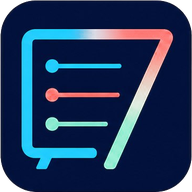
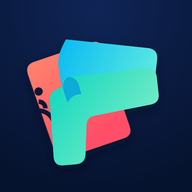
Rebrand Cast 7 as FlipCast

diff --git a/cast-receiver/receiver.js b/cast-receiver/receiver.js
@@ -6,12 +6,12 @@
   const esc=v=>String(v??'').replace(/[&<>'"]/g,c=>({'&':'&amp;','<':'&lt;','>':'&gt;',"'":'&#39;','"':'&quot;'}[c]));
   const VFX={fire:{file:'fire-v49.mp4',type:'video/mp4'},freeze:{file:'freeze-v49.mp4',type:'video/mp4'},electric:{file:'electric-v49.mp4',type:'video/mp4'},x2:{file:'x2-v52.webm',type:'video/webm'},bust:{file:'bust-v52.webm',type:'video/webm',holdAt:8.6},flip7:{file:'flip7-v60.webm',type:'video/webm'}};
   const posterFile=name=>name==='bust'?'bust-v58-poster.png':name==='flip7'?'flip7-v60-poster.png':`${name}-v53-poster.png`;
-  const poster=(name,active)=>`<img class="fx-poster fx-${name}-poster${active?' active-poster':''}" src="assets/${posterFile(name)}?v=64" alt="">`;
-  const vfxVideo=(name,key)=>{const asset=VFX[name];return `<video class="fx-video fx-${name}-video" data-effect-key="${esc(key)}"${asset.holdAt?` data-hold-at="${asset.holdAt}"`:''} autoplay muted playsinline preload="auto" onloadeddata="this.classList.add('ready');this.closest('.player-fx').classList.add('video-ready')" onplaying="this.classList.add('ready');this.closest('.player-fx').classList.add('video-ready')"><source src="assets/${asset.file}?v=64" type="${asset.type}"></video>`};
+  const poster=(name,active)=>`<img class="fx-poster fx-${name}-poster${active?' active-poster':''}" src="assets/${posterFile(name)}?v=65" alt="">`;
+  const vfxVideo=(name,key)=>{const asset=VFX[name];return `<video class="fx-video fx-${name}-video" data-effect-key="${esc(key)}"${asset.holdAt?` data-hold-at="${asset.holdAt}"`:''} autoplay muted playsinline preload="auto" onloadeddata="this.classList.add('ready');this.closest('.player-fx').classList.add('video-ready')" onplaying="this.classList.add('ready');this.closest('.player-fx').classList.add('video-ready')"><source src="assets/${asset.file}?v=65" type="${asset.type}"></video>`};
   const videoEffect=p=>p.busted?'bust':p.flip7?'flip7':p.doubled?'x2':p.frozen?'freeze':p.hot?'fire':p.nearVictory?'electric':null;
   const videoPriority=['bust','flip7','x2','freeze','fire','electric'];
   const fx=(p,activeVideo)=>{const names=[];if(p.hot)names.push('fire');if(p.frozen)names.push('freeze');if(p.doubled)names.push('x2');if(p.busted)names.push('bust');if(p.flip7)names.push('flip7');if(p.nearVictory)names.push('electric');const key=activeVideo?`${p.id}:${activeVideo}`:'';return `<span class="player-fx${activeVideo?' has-video':''}" aria-hidden="true">${names.map(name=>poster(name,name===activeVideo)).join('')}${p.doubled?'<span class="fx-x2-hold">×2</span>':''}${activeVideo?vfxVideo(activeVideo,key):''}</span>`};
-  function warmVfx(){const bin=document.createElement('div');bin.className='vfx-preload';for(const [name,asset] of Object.entries(VFX)){const video=document.createElement('video');video.muted=true;video.playsInline=true;video.preload='metadata';video.poster=`assets/${posterFile(name)}?v=64`;video.src=`assets/${asset.file}?v=64`;bin.appendChild(video)}document.body.appendChild(bin)}
+  function warmVfx(){const bin=document.createElement('div');bin.className='vfx-preload';for(const [name,asset] of Object.entries(VFX)){const video=document.createElement('video');video.muted=true;video.playsInline=true;video.preload='metadata';video.poster=`assets/${posterFile(name)}?v=65`;video.src=`assets/${asset.file}?v=65`;bin.appendChild(video)}document.body.appendChild(bin)}
   let lastGameId=null,previousLeaderId=null,previousDoubled=new Map(),effectState=new Map(),effectQueue=[],currentEffectKey=null,lastData=null,effectWatchdog=null;
   function finishVideo(video,failed=false){const key=video.dataset.effectKey;if(key)effectState.set(key,'done');if(key===currentEffectKey){currentEffectKey=null;clearTimeout(effectWatchdog);effectWatchdog=null}const wrap=video.closest('.player-fx');if(failed)video.classList.add('failed');video.remove();if(wrap){wrap.classList.remove('video-ready','has-video');if(failed)wrap.classList.add('video-failed')}setTimeout(()=>lastData&&render(lastData),0)}
   board.addEventListener('ended',event=>{if(event.target.matches('.fx-video'))finishVideo(event.target)},true);
@@ -30,7 +30,7 @@
     if(!data)return;idle.classList.add('hidden');board.classList.remove('hidden');
     if(data.status==='stats'){
       clearTimeout(effectWatchdog);effectWatchdog=null;effectQueue=[];currentEffectKey=null;effectState=new Map();
-      const stats=data.stats||[];board.className=`scoreboard stats-screen${stats.length>10?' dense-stats':''}`;board.innerHTML=`<header><div><span>ALL-TIME</span><h1>Cast 7 stats</h1></div><div class="round"><b>${Number(data.totalGames)||0}</b><small>games tracked</small></div></header><div class="cast-stats">${stats.map((p,i)=>`<article class="cast-stat-row"><em>${i+1}</em><strong>${esc(p.name)}<small>${Number(p.games)||0} games · ${Math.round((Number(p.winPct)||0)*100)}% wins${p.avgPlace?` · avg place ${Number(p.avgPlace).toFixed(1)}`:''}</small></strong><b>${Number(p.wins)||0}<small>wins</small></b></article>`).join('')||'<p>No completed games yet.</p>'}</div><footer>All-time player leaderboard</footer>`;return;
+      const stats=data.stats||[];board.className=`scoreboard stats-screen${stats.length>10?' dense-stats':''}`;board.innerHTML=`<header><div><span>ALL-TIME</span><h1>FlipCast stats</h1></div><div class="round"><b>${Number(data.totalGames)||0}</b><small>games tracked</small></div></header><div class="cast-stats">${stats.map((p,i)=>`<article class="cast-stat-row"><em>${i+1}</em><strong>${esc(p.name)}<small>${Number(p.games)||0} games · ${Math.round((Number(p.winPct)||0)*100)}% wins${p.avgPlace?` · avg place ${Number(p.avgPlace).toFixed(1)}`:''}</small></strong><b>${Number(p.wins)||0}<small>wins</small></b></article>`).join('')||'<p>No completed games yet.</p>'}</div><footer>All-time player leaderboard</footer>`;return;
     }
     if(!data?.players?.length)return;
     if(data.gameId!==lastGameId){lastGameId=data.gameId;previousLeaderId=null;previousDoubled=new Map();effectState=new Map();effectQueue=[];currentEffectKey=null;clearTimeout(effectWatchdog);effectWatchdog=null}
@@ -52,7 +52,7 @@
     if(!currentEffectKey){currentEffectKey=effectQueue.shift()||null;if(currentEffectKey){effectState.set(currentEffectKey,'playing');clearTimeout(effectWatchdog);const watchedKey=currentEffectKey;effectWatchdog=setTimeout(()=>{if(currentEffectKey===watchedKey){effectState.set(watchedKey,'done');currentEffectKey=null;render(lastData)}},15000)}}
     const activeVideoById=new Map(activeEffects.filter(([p,effect])=>`${p.id}:${effect}`===currentEffectKey).map(([p,effect])=>[p.id,effect]));
     const liveVideos=new Map([...board.querySelectorAll('.fx-video[data-effect-key]')].map(video=>{video.remove();return [video.dataset.effectKey,video]}));
-    board.innerHTML=`<header><div><span>${data.roundActive?'CURRENT ROUND PREVIEW':'LIVE SCOREBOARD'}</span><h1>Cast 7</h1></div><div class="round">Round <b>${Number(data.round)||1}</b><small>First to ${Number(data.target)||200}</small></div></header><div class="players">${players.map((p,i)=>{const doublePulse=p.doubled&&previousDoubled.get(p.id)===false;const effects=`${p.flip7?' flip7':''}${p.frozen?' frozen':''}${p.hot?' hot':''}${p.busted?' busted':''}${p.nearVictory?' near-win':''}${doublePulse?' double-pulse':''}${p.id===newLeaderId?' new-leader':''}`;const badges=`${p.flip7?'<small class="effect-tag gold">✦ FLIP 7</small>':''}${p.frozen?'<small class="effect-tag ice">❄ FROZEN</small>':''}${p.doubled?'<small class="effect-tag double">×2</small>':''}${p.hot?'<small class="effect-tag fire">🔥 60+</small>':''}${p.nearVictory?'<small class="effect-tag electric">⚡ NEAR WIN</small>':''}${p.busted?'<small class="effect-tag bust">BUST</small>':''}`;return `<article class="player ${p.score===high&&high>0?'leader':''} ${data.roundActive?'preview':''}${effects}">${fx(p,activeVideoById.get(p.id))}<em>${i===0?'♛':i+1}</em><strong>${esc(p.name)}<span class="effect-tags">${badges}</span>${p.score===high&&high>0?'<small class="leader-label">LEADER</small>':''}</strong><i><u style="width:${Math.min(100,p.score/data.target*100)}%"></u></i><b>${Number(p.score)||0}${data.roundActive?`<small><span>${Number(p.banked)||0}</span> <mark>+${Number(p.roundPoints)||0}</mark></small>`:''}</b></article>`}).join('')}</div><footer>${data.roundActive?'Projected totals if everyone stops now':`${Number(data.completedRounds)||0} rounds complete · ${players.length} players`}</footer>`;
+    board.innerHTML=`<header><div><span>${data.roundActive?'CURRENT ROUND PREVIEW':'LIVE SCOREBOARD'}</span><h1>FlipCast</h1></div><div class="round">Round <b>${Number(data.round)||1}</b><small>First to ${Number(data.target)||200}</small></div></header><div class="players">${players.map((p,i)=>{const doublePulse=p.doubled&&previousDoubled.get(p.id)===false;const effects=`${p.flip7?' flip7':''}${p.frozen?' frozen':''}${p.hot?' hot':''}${p.busted?' busted':''}${p.nearVictory?' near-win':''}${doublePulse?' double-pulse':''}${p.id===newLeaderId?' new-leader':''}`;const badges=`${p.flip7?'<small class="effect-tag gold">✦ FLIP 7</small>':''}${p.frozen?'<small class="effect-tag ice">❄ FROZEN</small>':''}${p.doubled?'<small class="effect-tag double">×2</small>':''}${p.hot?'<small class="effect-tag fire">🔥 60+</small>':''}${p.nearVictory?'<small class="effect-tag electric">⚡ NEAR WIN</small>':''}${p.busted?'<small class="effect-tag bust">BUST</small>':''}`;return `<article class="player ${p.score===high&&high>0?'leader':''} ${data.roundActive?'preview':''}${effects}">${fx(p,activeVideoById.get(p.id))}<em>${i===0?'♛':i+1}</em><strong>${esc(p.name)}<span class="effect-tags">${badges}</span>${p.score===high&&high>0?'<small class="leader-label">LEADER</small>':''}</strong><i><u style="width:${Math.min(100,p.score/data.target*100)}%"></u></i><b>${Number(p.score)||0}${data.roundActive?`<small><span>${Number(p.banked)||0}</span> <mark>+${Number(p.roundPoints)||0}</mark></small>`:''}</b></article>`}).join('')}</div><footer>${data.roundActive?'Projected totals if everyone stops now':`${Number(data.completedRounds)||0} rounds complete · ${players.length} players`}</footer>`;
     for(const placeholder of board.querySelectorAll('.fx-video[data-effect-key]')){const live=liveVideos.get(placeholder.dataset.effectKey);if(live&&!live.ended)placeholder.replaceWith(live)}
     if(uniqueLeaderId)previousLeaderId=uniqueLeaderId;
     previousDoubled=new Map(players.map(p=>[p.id,Boolean(p.doubled)]));

diff --git a/app.js b/app.js
@@ -1,4 +1,4 @@
-import {MODIFIERS, calculateRound, totalsFor, gameOutcome, playerStats} from './rules.js?v=64';
+import {MODIFIERS, calculateRound, totalsFor, gameOutcome, playerStats} from './rules.js?v=65';
 
 function syncViewportHeight(){document.documentElement.style.setProperty('--app-height',`${Math.round(window.visualViewport?.height||window.innerHeight)}px`)}
 syncViewportHeight();
@@ -7,7 +7,7 @@ window.visualViewport?.addEventListener('scroll',syncViewportHeight);
 window.addEventListener('orientationchange',syncViewportHeight);
 
 const KEY = 'seven-up-scorekeeper-v1';
-const BUILD = '64';
+const BUILD = '65';
 const FEEDBACK_FORM = 'https://tally.so/r/1Ag8Pb';
 const fresh = () => ({players:[], games:[], activeGameId:null});
 let state = load(); let view = 'home'; let scoringMode = 'cards'; let draft = {}; let winnerGame = null;
@@ -49,7 +49,7 @@ function home(){const game=activeGame();return `<svg class="cast-arrow-overlay" 
   ${game?`<button class="card home-action primary" data-nav="game"><strong>Resume game</strong><span>Round ${game.rounds.length+1} · ${game.playerIds.length} players</span></button>`:`<button class="card home-action primary" data-nav="setup"><strong>New game</strong><span>Choose players and start scoring</span></button>`}
   ${game?`<button class="card home-action" data-nav="setup"><strong>New game</strong><span>Start another match</span></button>`:''}
   <button class="card home-action" data-nav="stats"><strong>All-time stats</strong><span>Wins, win rate, streaks, and more</span></button>
-  <button class="card home-action" data-nav="history"><strong>Game history</strong><span>${state.games.filter(g=>g.status==='complete').length} completed games</span></button></section><p class="subtle app-footer"><a href="${esc(feedbackUrl())}" target="_blank" rel="noopener">Feedback</a><span aria-hidden="true">·</span><a href="privacy.html?v=64">Privacy</a></p>`}
+  <button class="card home-action" data-nav="history"><strong>Game history</strong><span>${state.games.filter(g=>g.status==='complete').length} completed games</span></button></section><p class="subtle app-footer"><a href="${esc(feedbackUrl())}" target="_blank" rel="noopener">Feedback</a><span aria-hidden="true">·</span><a href="privacy.html?v=65">Privacy</a></p>`}
 function positionCastArrow(){const svg=document.querySelector('.cast-arrow-overlay'),hint=document.querySelector('.hero-cast-hint'),launcher=document.querySelector('.cast-launcher');if(!svg||!hint)return;const h=hint.getBoundingClientRect(),c=launcher?.getBoundingClientRect();const startX=Math.min(innerWidth-70,h.right+9),startY=h.top+h.height/2,targetX=c?.width?c.left+c.width/2:innerWidth-37,targetY=c?.height?c.top+c.height/2:34;svg.setAttribute('viewBox',`0 0 ${innerWidth} ${innerHeight}`);svg.querySelector('path').setAttribute('d',`M${startX} ${startY} H${targetX} V${targetY}`);svg.querySelector('polyline').setAttribute('points',`${targetX-8},${targetY+12} ${targetX},${targetY} ${targetX+8},${targetY+12}`)}
 function setup(){return `<section class="setup-page-shell"><div class="section-head setup-head"><h1>New game</h1><button class="button ghost small" data-nav="home">Cancel</button></div><section class="card setup-card">
   <div class="field"><label>Target score</label><input id="target" type="number" min="25" max="999" value="200" inputmode="numeric"></div>
@@ -62,7 +62,7 @@ function gameScreen(game){const totals=totalsFor(game);const latestRound=game.ro
   <div class="game-actions"><button id="endGame" class="button ghost">End game</button><button id="scoreRound" class="button">Score round ${game.rounds.length+1}</button></div></section>`}
 function tvScreen(game){
   const totals=totalsFor(game);const order=[...game.playerIds].sort((a,b)=>totals[b]-totals[a]);const high=Math.max(...Object.values(totals));const cols=order.length>8?2:1;const rows=Math.ceil(order.length/cols);
-  return `<section class="tv-view ${cols===2?'tv-dense':''}" style="--tv-cols:${cols};--tv-rows:${rows}"><header class="tv-head"><div><span class="tv-kicker">LIVE SCOREBOARD</span><h1>Cast 7</h1></div><div class="tv-round">Round <strong>${game.rounds.length+1}</strong><small>First to ${game.target}</small></div></header>
+  return `<section class="tv-view ${cols===2?'tv-dense':''}" style="--tv-cols:${cols};--tv-rows:${rows}"><header class="tv-head"><div><span class="tv-kicker">LIVE SCOREBOARD</span><h1>FlipCast</h1></div><div class="tv-round">Round <strong>${game.rounds.length+1}</strong><small>First to ${game.target}</small></div></header>
   <div class="tv-board">${order.map((id,i)=>`<article class="tv-player ${totals[id]===high&&high>0?'leader':''}"><div class="tv-rank">${i===0?'♛':i+1}</div><div class="tv-name">${esc(player(id)?.name)}${totals[id]===high&&high>0?'<span>LEADER</span>':''}</div><div class="tv-track"><i style="width:${Math.min(100,totals[id]/game.target*100)}%"></i></div><div class="tv-score">${totals[id]}</div></article>`).join('')}</div>
   <footer class="tv-foot"><span>${game.rounds.length?`${game.rounds.length} round${game.rounds.length===1?'':'s'} complete`:'Game ready'} · ${game.playerIds.length} players</span><div><button id="tvFullscreen" class="button ghost small">Full screen</button> <button class="button ghost small" data-nav="game">Exit TV mode</button></div></footer></section>`;
 }
@@ -112,7 +112,7 @@ if('serviceWorker'in navigator){
     reloading=true;
     location.reload();
   });
-  navigator.serviceWorker.register('./sw.js?v=64',{updateViaCache:'none'}).then(reg=>reg.update()).catch(()=>{});
+  navigator.serviceWorker.register('./sw.js?v=65',{updateViaCache:'none'}).then(reg=>reg.update()).catch(()=>{});
 }
 channel?.addEventListener('message',()=>{state=load();if(view==='tv')render()});
 window.addEventListener('storage',event=>{if(event.key===KEY){state=load();if(view==='tv')render()}});

diff --git a/index.html b/index.html
@@ -4,24 +4,24 @@
   <meta charset="utf-8">
   <meta name="viewport" content="width=device-width,initial-scale=1,viewport-fit=cover">
   <meta name="theme-color" content="#071536">
-  <meta name="description" content="A fast, offline scorekeeper for Flip Seven-style games.">
+  <meta name="description" content="Fast game-night scoring with history, statistics, and a live Cast scoreboard.">
   <meta name="apple-mobile-web-app-capable" content="yes">
   <meta name="apple-mobile-web-app-status-bar-style" content="black-translucent">
-  <meta name="apple-mobile-web-app-title" content="Cast 7">
-  <meta name="application-version" content="64">
-  <title>Cast 7</title>
-  <link rel="manifest" href="manifest.webmanifest?v=64">
-  <link rel="icon" href="icon-192.png?v=64" type="image/png">
-  <link rel="apple-touch-icon" href="icon-192.png?v=64">
-  <link rel="stylesheet" href="styles.css?v=64">
-  <link rel="stylesheet" href="ui-enhancements.css?v=64">
-  <script src="cast-config.js?v=64"></script>
-  <script src="cast-sender.js?v=64"></script>
+  <meta name="apple-mobile-web-app-title" content="FlipCast">
+  <meta name="application-version" content="65">
+  <title>FlipCast</title>
+  <link rel="manifest" href="manifest.webmanifest?v=65">
+  <link rel="icon" href="icon-192.png?v=65" type="image/png">
+  <link rel="apple-touch-icon" href="icon-192.png?v=65">
+  <link rel="stylesheet" href="styles.css?v=65">
+  <link rel="stylesheet" href="ui-enhancements.css?v=65">
+  <script src="cast-config.js?v=65"></script>
+  <script src="cast-sender.js?v=65"></script>
   <script src="https://www.gstatic.com/cv/js/sender/v1/cast_sender.js?loadCastFramework=1"></script>
 </head>
 <body>
   <header class="topbar">
-    <button class="brand" data-nav="home" aria-label="Cast 7 home"><img class="brand-mark" src="icon-192.png?v=64" alt=""><span>Cast 7</span></button>
+    <button class="brand" data-nav="home" aria-label="FlipCast home"><img class="brand-mark" src="icon-192.png?v=65" alt=""><span>FlipCast</span></button>
     <div class="topbar-actions"><button id="installBtn" class="button ghost small hidden">Install</button><button id="castButton" class="cast-launcher cast-unavailable" type="button" title="Cast scoreboard" aria-label="Cast scoreboard" aria-disabled="true"><svg viewBox="0 0 24 24" aria-hidden="true"><path d="M1 18v3h3a3 3 0 0 0-3-3Zm0-4v2a5 5 0 0 1 5 5h2a7 7 0 0 0-7-7Zm0-4v2a9 9 0 0 1 9 9h2C12 14.9 7.1 10 1 10Zm3-7a3 3 0 0 0-3 3v2h2V6a1 1 0 0 1 1-1h16a1 1 0 0 1 1 1v11a1 1 0 0 1-1 1h-6v2h6a3 3 0 0 0 3-3V6a3 3 0 0 0-3-3H4Z"/></svg></button></div>
   </header>
   <main id="app" tabindex="-1"></main>
@@ -33,6 +33,6 @@
       <div class="dialog-actions"><button value="cancel" class="button ghost">Cancel</button><button value="confirm" class="button danger">Confirm</button></div>
     </form>
   </dialog>
-  <script type="module" src="app.js?v=64"></script>
+  <script type="module" src="app.js?v=65"></script>
 </body>
 </html>

diff --git a/privacy.html b/privacy.html
@@ -4,19 +4,19 @@
   <meta charset="utf-8">
   <meta name="viewport" content="width=device-width,initial-scale=1,viewport-fit=cover">
   <meta name="theme-color" content="#071536">
-  <title>Privacy · Cast 7</title>
-  <link rel="icon" href="icon-192.png?v=64" type="image/png">
-  <link rel="stylesheet" href="styles.css?v=64">
-  <link rel="stylesheet" href="ui-enhancements.css?v=64">
+  <title>Privacy · FlipCast</title>
+  <link rel="icon" href="icon-192.png?v=65" type="image/png">
+  <link rel="stylesheet" href="styles.css?v=65">
+  <link rel="stylesheet" href="ui-enhancements.css?v=65">
 </head>
 <body class="privacy-page">
   <header class="topbar">
-    <a class="brand" href="./" aria-label="Back to Cast 7"><img class="brand-mark" src="icon-192.png?v=64" alt=""><span>Cast 7</span></a>
+    <a class="brand" href="./" aria-label="Back to FlipCast"><img class="brand-mark" src="icon-192.png?v=65" alt=""><span>FlipCast</span></a>
   </header>
   <main class="privacy-main">
     <section class="card privacy-card"><div class="privacy-scroll">
-      <div class="privacy-heading"><h1>Privacy</h1><span class="version-pill">App version 64</span></div>
-      <p>Cast 7 stores player names, games, scores, history, and statistics only in your browser on your device.</p>
+      <div class="privacy-heading"><h1>Privacy</h1><span class="version-pill">App version 65</span></div>
+      <p>FlipCast stores player names, games, scores, history, and statistics only in your browser on your device.</p>
       <p>The app does not require an account and does not upload this game data to a server. The hosting provider may keep ordinary technical access logs when it delivers the app files.</p>
       <p>Clearing this site’s browser data, uninstalling the app, or losing the device may permanently remove saved game data. Backup and transfer tools are not yet included in this beta.</p>
       <p>When you choose to Cast, the live scoreboard is sent through Google Cast to the receiver you select. The public receiver does not retain the scoreboard.</p>
@@ -24,7 +24,7 @@
       <h2>Independent utility</h2>
       <p>This is an independent scorekeeping utility. It is not affiliated with, endorsed by, or sponsored by the publishers or trademark owners of any card game or beverage brand. All trademarks belong to their respective owners.</p>
       </div>
-      <div class="privacy-actions"><a class="button ghost" href="update.html?v=64">Update app</a><a class="button" href="./">Back to scorekeeper</a></div>
+      <div class="privacy-actions"><a class="button ghost" href="update.html?v=65">Update app</a><a class="button" href="./">Back to scorekeeper</a></div>
     </section>
   </main>
 </body>

diff --git a/update.html b/update.html
@@ -4,17 +4,17 @@
   <meta charset="utf-8">
   <meta name="viewport" content="width=device-width,initial-scale=1,viewport-fit=cover">
   <meta name="theme-color" content="#071536">
-  <title>Updating Cast 7</title>
+  <title>Updating FlipCast</title>
   <style>
     *{box-sizing:border-box}html,body{height:100%;margin:0}body{display:grid;place-items:center;padding:24px;background:#081017;color:#f6f8f9;font-family:system-ui,-apple-system,sans-serif}.panel{width:min(420px,100%);padding:24px;border:1px solid #ffffff18;border-radius:20px;background:#14212b;text-align:center;box-shadow:0 18px 50px #0007}h1{margin:0 0 9px;font-size:28px}p{margin:0;color:#9fb0bd;line-height:1.5}.spinner{width:38px;height:38px;margin:20px auto;border:4px solid #ffffff1c;border-top-color:#32d5ff;border-radius:50%;animation:spin .8s linear infinite}.button{display:none;margin-top:18px;padding:12px 16px;border:0;border-radius:13px;background:#32d5ff;color:#081017;font:inherit;font-weight:850;text-decoration:none}@keyframes spin{to{transform:rotate(360deg)}}
   </style>
 </head>
 <body>
   <main class="panel">
-    <h1>Updating Cast 7</h1>
+    <h1>Updating FlipCast</h1>
     <p id="status">Removing old downloaded app files…</p>
     <div class="spinner" aria-hidden="true"></div>
-    <a id="retry" class="button" href="./?updated=64">Open Cast 7</a>
+    <a id="retry" class="button" href="./?updated=65">Open FlipCast</a>
   </main>
   <script>
     (async()=>{
@@ -22,7 +22,7 @@
       try{
         if('serviceWorker' in navigator){
           status.textContent='Installing the latest app files…';
-          const registration=await navigator.serviceWorker.register('./sw.js?v=64',{updateViaCache:'none'});
+          const registration=await navigator.serviceWorker.register('./sw.js?v=65',{updateViaCache:'none'});
           await registration.update();
           const worker=registration.installing||registration.waiting||registration.active;
           if(worker&&worker.state!=='activated'){
@@ -36,10 +36,10 @@
             });
           }
         }
-        status.textContent='Update ready. Opening version 64…';
-        location.replace(`./?updated=64&fresh=${Date.now()}`);
+        status.textContent='Update ready. Opening version 65…';
+        location.replace(`./?updated=65&fresh=${Date.now()}`);
       }catch(error){
-        status.textContent='The automatic update was blocked. Tap below to reopen Cast 7.';
+        status.textContent='The automatic update was blocked. Tap below to reopen FlipCast.';
         document.querySelector('.spinner').style.display='none';
         retry.style.display='inline-block';
       }

diff --git a/cast-receiver/index.html b/cast-receiver/index.html
@@ -1,1 +1,1 @@
-<!doctype html><html lang="en"><head><meta charset="utf-8"><meta name="viewport" content="width=device-width,initial-scale=1"><title>Cast 7 TV</title><link rel="stylesheet" href="receiver.css?v=64"><link rel="stylesheet" href="preview.css?v=64"><script src="https://www.gstatic.com/cast/sdk/libs/caf_receiver/v3/cast_receiver_framework.js"></script></head><body><main id="receiver"><section id="idle" class="idle"><img class="brand-mark" src="cast-icon-512.png?v=64" alt=""><h1>Cast 7</h1><p>Ready for scores…</p></section><section id="scoreboard" class="scoreboard hidden"></section></main><script src="receiver.js?v=64"></script></body></html>
+<!doctype html><html lang="en"><head><meta charset="utf-8"><meta name="viewport" content="width=device-width,initial-scale=1"><title>FlipCast TV</title><link rel="stylesheet" href="receiver.css?v=65"><link rel="stylesheet" href="preview.css?v=65"><script src="https://www.gstatic.com/cast/sdk/libs/caf_receiver/v3/cast_receiver_framework.js"></script></head><body><main id="receiver"><section id="idle" class="idle"><img class="brand-mark" src="cast-icon-512.png?v=65" alt=""><h1>FlipCast</h1><p>Ready for scores…</p></section><section id="scoreboard" class="scoreboard hidden"></section></main><script src="receiver.js?v=65"></script></body></html>

diff --git a/sw.js b/sw.js
@@ -1,5 +1,5 @@
-const CACHE = 'cast-7-v64';
-const FILES = ['./','index.html','privacy.html?v=64','update.html?v=64','styles.css?v=64','ui-enhancements.css?v=64','app.js?v=64','rules.js?v=64','cast-config.js?v=64','cast-sender.js?v=64','manifest.webmanifest?v=64','icon-192.png?v=64','icon-512.png?v=64','icon-maskable-512.png?v=64','assets/fire-v3.webp','assets/frost-v3.webp','assets/electric-v3a.webp','assets/electric-v3b.webp'];
+const CACHE = 'flipcast-v65';
+const FILES = ['./','index.html','privacy.html?v=65','update.html?v=65','styles.css?v=65','ui-enhancements.css?v=65','app.js?v=65','rules.js?v=65','cast-config.js?v=65','cast-sender.js?v=65','manifest.webmanifest?v=65','icon-192.png?v=65','icon-512.png?v=65','icon-maskable-512.png?v=65','icon.svg?v=65','icon-maskable.svg?v=65','assets/fire-v3.webp','assets/frost-v3.webp','assets/electric-v3a.webp','assets/electric-v3b.webp'];
 self.addEventListener('install', event => event.waitUntil(caches.open(CACHE).then(cache => cache.addAll(FILES)).then(() => self.skipWaiting())));
 self.addEventListener('activate', event => event.waitUntil(caches.keys().then(keys => Promise.all(keys.filter(k => k !== CACHE).map(k => caches.delete(k)))).then(() => self.clients.claim())));
 self.addEventListener('message', event => {

diff --git a/repair-v10.html b/repair-v10.html
@@ -4,13 +4,13 @@
   <meta charset="utf-8">
   <meta name="viewport" content="width=device-width,initial-scale=1">
   <meta name="theme-color" content="#101820">
-  <title>Repairing Cast 7</title>
+  <title>Repairing FlipCast</title>
   <style>
     body{margin:0;min-height:100vh;display:grid;place-items:center;background:#101820;color:#fff;font:18px system-ui;text-align:center;padding:24px;box-sizing:border-box}
     strong{display:block;color:#32d5ff;font-size:28px;margin-bottom:12px}p{max-width:420px;line-height:1.45}
   </style>
 </head>
-<body><main><strong>Updating Cast 7…</strong><p id="status">Removing the old offline app files. Your players and game history are being preserved.</p></main>
+<body><main><strong>Updating FlipCast…</strong><p id="status">Removing the old offline app files. Your players and game history are being preserved.</p></main>
 <script>
 (async()=>{
   try {

diff --git a/serve.py b/serve.py
@@ -1,5 +1,5 @@
 #!/usr/bin/env python3
-"""Small static server for the Cast 7 home-network app."""
+"""Small static server for the FlipCast home-network app."""
 
 from http.server import SimpleHTTPRequestHandler, ThreadingHTTPServer
 from pathlib import Path
@@ -34,5 +34,5 @@ class AppHandler(SimpleHTTPRequestHandler):
 
 if __name__ == "__main__":
     server = ThreadingHTTPServer(("0.0.0.0", 8787), AppHandler)
-    print("Cast 7 listening on port 8787", flush=True)
+    print("FlipCast listening on port 8787", flush=True)
     server.serve_forever()

diff --git a/cast_receiver_server.py b/cast_receiver_server.py
@@ -13,5 +13,5 @@ class ReceiverHandler(SimpleHTTPRequestHandler):
         super().end_headers()
 
 if __name__ == "__main__":
-    print("Cast 7 Cast receiver listening on port 8790", flush=True)
+    print("FlipCast receiver listening on port 8790", flush=True)
     ThreadingHTTPServer(("127.0.0.1", 8790), ReceiverHandler).serve_forever()

diff --git a/CAST_PUBLICATION.md b/CAST_PUBLICATION.md
@@ -4,7 +4,7 @@
 
 - Application ID: `F869B6B1`
 - Type: Custom Receiver
-- Name: Cast 7
+- Name: FlipCast
 - Receiver URL: replace with the permanent static HTTPS URL after deployment
 - Supports relay casting: No
 - Supports audio-only devices: No
@@ -19,7 +19,7 @@
 - Listed on Google properties: No (unlisted)
 - Countries: All countries
 - Category: Games
-- Title: `Cast 7`
+- Title: `FlipCast`
 - Description: `A fast scorekeeper and live TV leaderboard for press-your-luck card games.`
 - Icon: `cast-icon-512.png` (512×512 PNG)
 

diff --git a/README.md b/README.md
@@ -1,4 +1,4 @@
-# Cast 7
+# FlipCast
 
 An offline-first, installable scorekeeping web app for Flip Seven-style card games. It includes quick score entry, a rule-aware card calculator, configurable target score, resumable games, history, and all-time player statistics.
 
